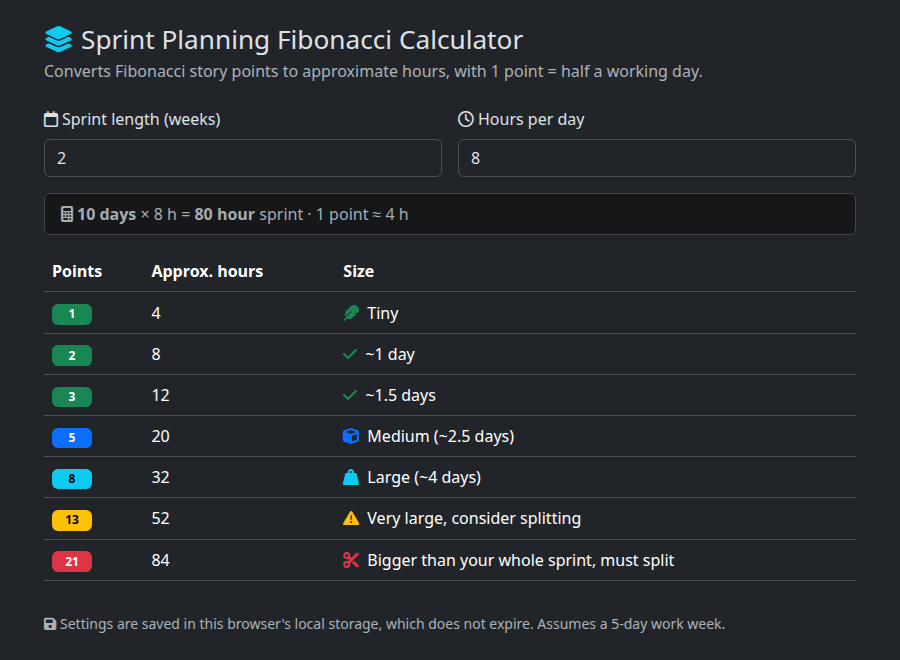
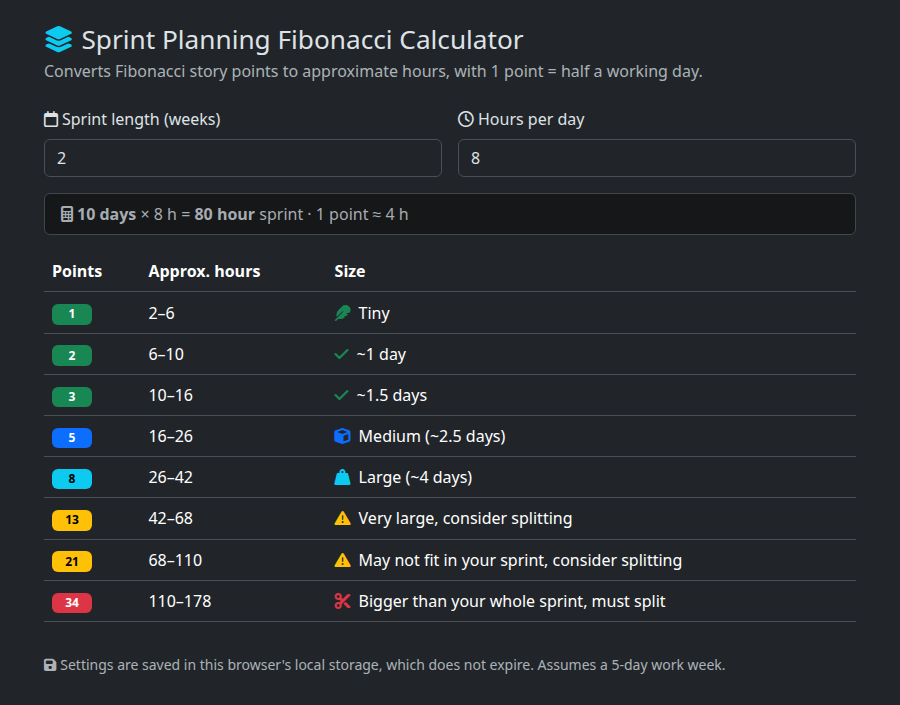
Doc changes and adjust range messages

diff --git a/app.js b/app.js
@@ -29,10 +29,11 @@ function plural(n, word) {
     return `${fmt(n)} ${word}${n === 1 ? '' : 's'}`;
 }
 
-// Fibonacci sequence up to 21, extended until one value exceeds the whole sprint
+// Fibonacci sequence up to 21, extended until one value's whole range exceeds the sprint
 function fibonacciPoints(hoursPerPoint, sprintHours) {
     const points = [1, 2];
-    while (points[points.length - 1] < 21 || points[points.length - 1] * hoursPerPoint <= sprintHours) {
+    const minHours = () => hoursRange(points, points.length - 1, hoursPerPoint).min;
+    while (points[points.length - 1] < 21 || minHours() <= sprintHours) {
         points.push(points[points.length - 1] + points[points.length - 2]);
     }
     return points;
@@ -48,9 +49,10 @@ function hoursRange(points, i, hoursPerPoint) {
     };
 }
 
-function describe(points, hours, days, sprintHours) {
+function describe(points, hours, days, sprintHours, range) {
     const fraction = hours / sprintHours;
-    if (fraction > 1) return { text: 'Bigger than your whole sprint, must split', cls: 'danger', icon: 'fa-scissors' };
+    if (range.min > sprintHours) return { text: 'Bigger than your whole sprint, must split', cls: 'danger', icon: 'fa-scissors' };
+    if (range.max > sprintHours) return { text: 'May not fit in your sprint, consider splitting', cls: 'warning', icon: 'fa-triangle-exclamation' };
     if (fraction > 0.5) return { text: 'Very large, consider splitting', cls: 'warning', icon: 'fa-triangle-exclamation' };
     if (fraction >= 0.35) return { text: `Large (~${plural(days, 'day')})`, cls: 'info', icon: 'fa-weight-hanging' };
     if (fraction >= 0.2) return { text: `Medium (~${plural(days, 'day')})`, cls: 'primary', icon: 'fa-cube' };
@@ -86,11 +88,11 @@ function calculate() {
     const allPoints = fibonacciPoints(hoursPerPoint, sprintHours);
     results.innerHTML = allPoints.map((points, i) => {
         const hours = points * hoursPerPoint;
-        const { min, max } = hoursRange(allPoints, i, hoursPerPoint);
-        const d = describe(points, hours, hours / hoursPerDay, sprintHours);
+        const range = hoursRange(allPoints, i, hoursPerPoint);
+        const d = describe(points, hours, hours / hoursPerDay, sprintHours, range);
         return `<tr>
             <td><span class="badge text-bg-${d.cls} points-badge">${points}</span></td>
-            <td>${fmt(min)}–${fmt(max)}</td>
+            <td>${fmt(range.min)}–${fmt(range.max)}</td>
             <td><i class="fa-solid ${d.icon} text-${d.cls} me-2"></i>${d.text}</td>
         </tr>`;
     }).join('');

diff --git a/README.md b/README.md
@@ -15,9 +15,9 @@ A single-page calculator that converts Fibonacci story points into approximate h
 ## Features
 
 - **Live calculation** – Changing the sprint length (weeks) or hours per day updates the table immediately.
-- **Points-to-hours table** – Shows each Fibonacci point value with its approximate hours range (min–max) and a size label (Tiny, ~N days, Medium, Large, Very large, Bigger than your whole sprint).
+- **Points-to-hours table** – Shows each Fibonacci point value with its approximate hours range (min–max) and a size label (Tiny, ~N days, Medium, Large, Very large, May not fit in your sprint, Bigger than your whole sprint).
 - **Sprint-relative sizing** – Size labels are based on the share of the sprint a story takes up, so they stay meaningful for any sprint length.
-- **Auto-extending scale** – Always shows 1–21 points, and adds more Fibonacci values until one exceeds the whole sprint.
+- **Auto-extending scale** – Always shows 1–21 points, and adds more Fibonacci values until one whose whole hours range exceeds the sprint.
 - **Saved settings** – Inputs are stored in the browser's `localStorage`, which does not expire.
 - **Sensible defaults** – A 2-week sprint at 8 hours per day.
 
@@ -84,7 +84,8 @@ SprintPlan/
 
 | Share of sprint | Label |
 |---|---|
-| More than 100% | Bigger than your whole sprint, must split |
+| Whole range (min hours) over the sprint | Bigger than your whole sprint, must split |
+| Top of range (max hours) over the sprint | May not fit in your sprint, consider splitting |
 | More than 50% | Very large, consider splitting |
 | 35% or more | Large (~N days) |
 | 20% or more | Medium (~N days) |
@@ -101,7 +102,8 @@ Example for a 2-week sprint at 6 hours per day (60 hours):
 | 5 | 12–19.5 | Medium (~2.5 days) |
 | 8 | 19.5–31.5 | Large (~4 days) |
 | 13 | 31.5–51 | Very large, consider splitting |
-| 21 | 51–82.5 | Bigger than your whole sprint, must split |
+| 21 | 51–82.5 | May not fit in your sprint, consider splitting |
+| 34 | 82.5–133.5 | Bigger than your whole sprint, must split |
 
 ## Deployment
 
